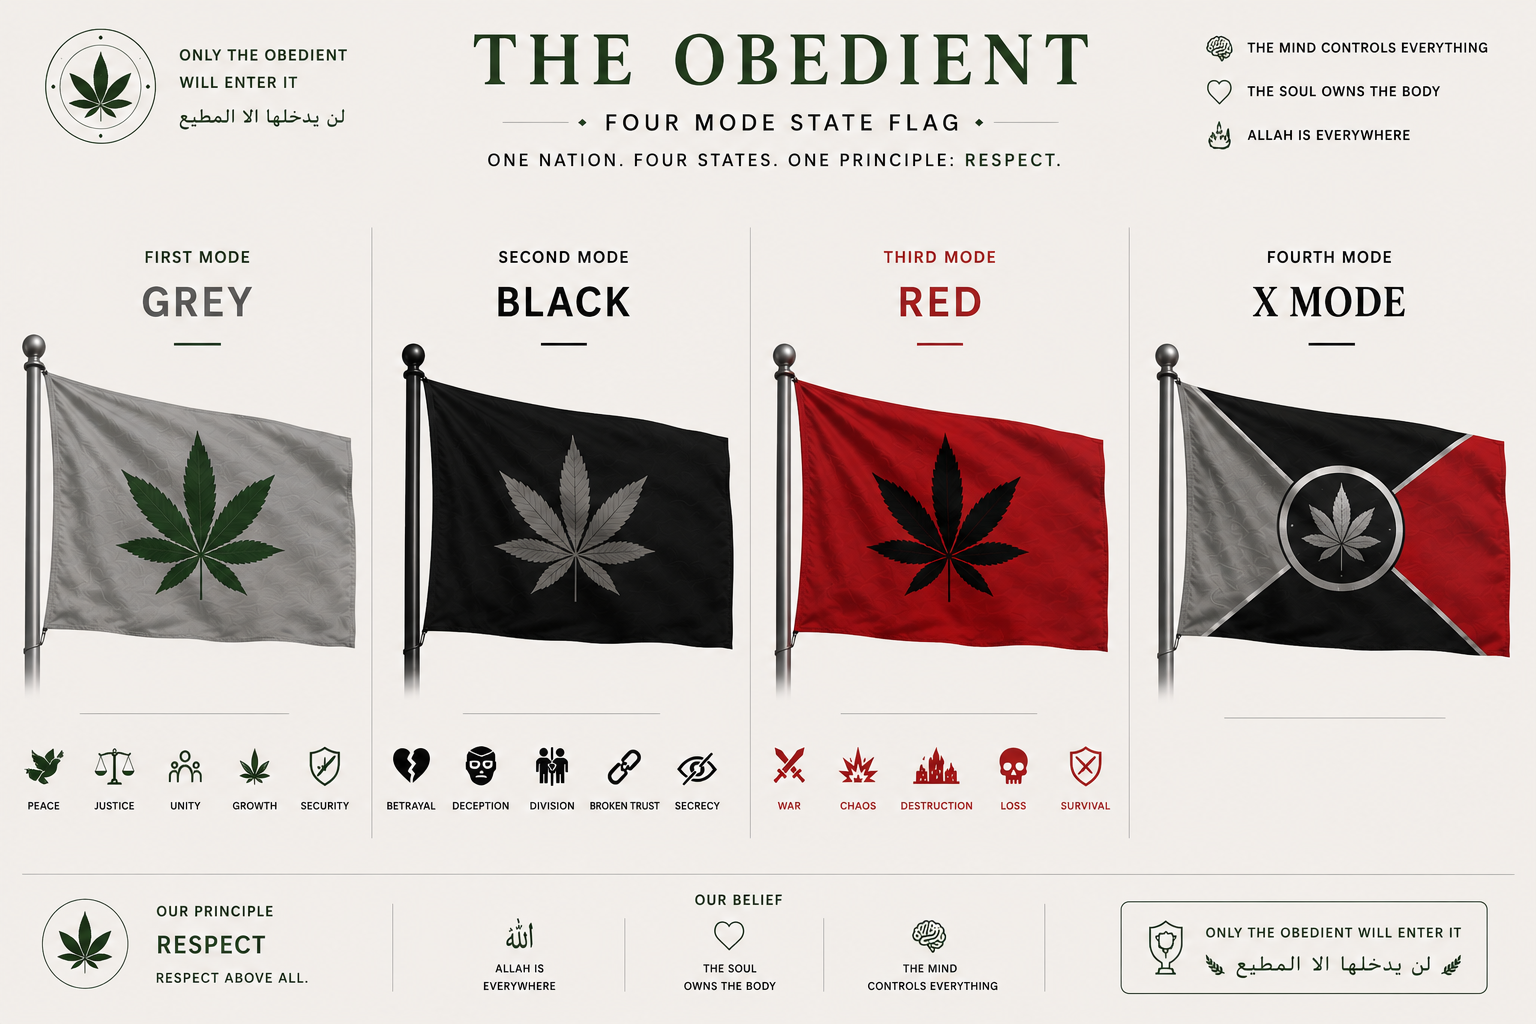
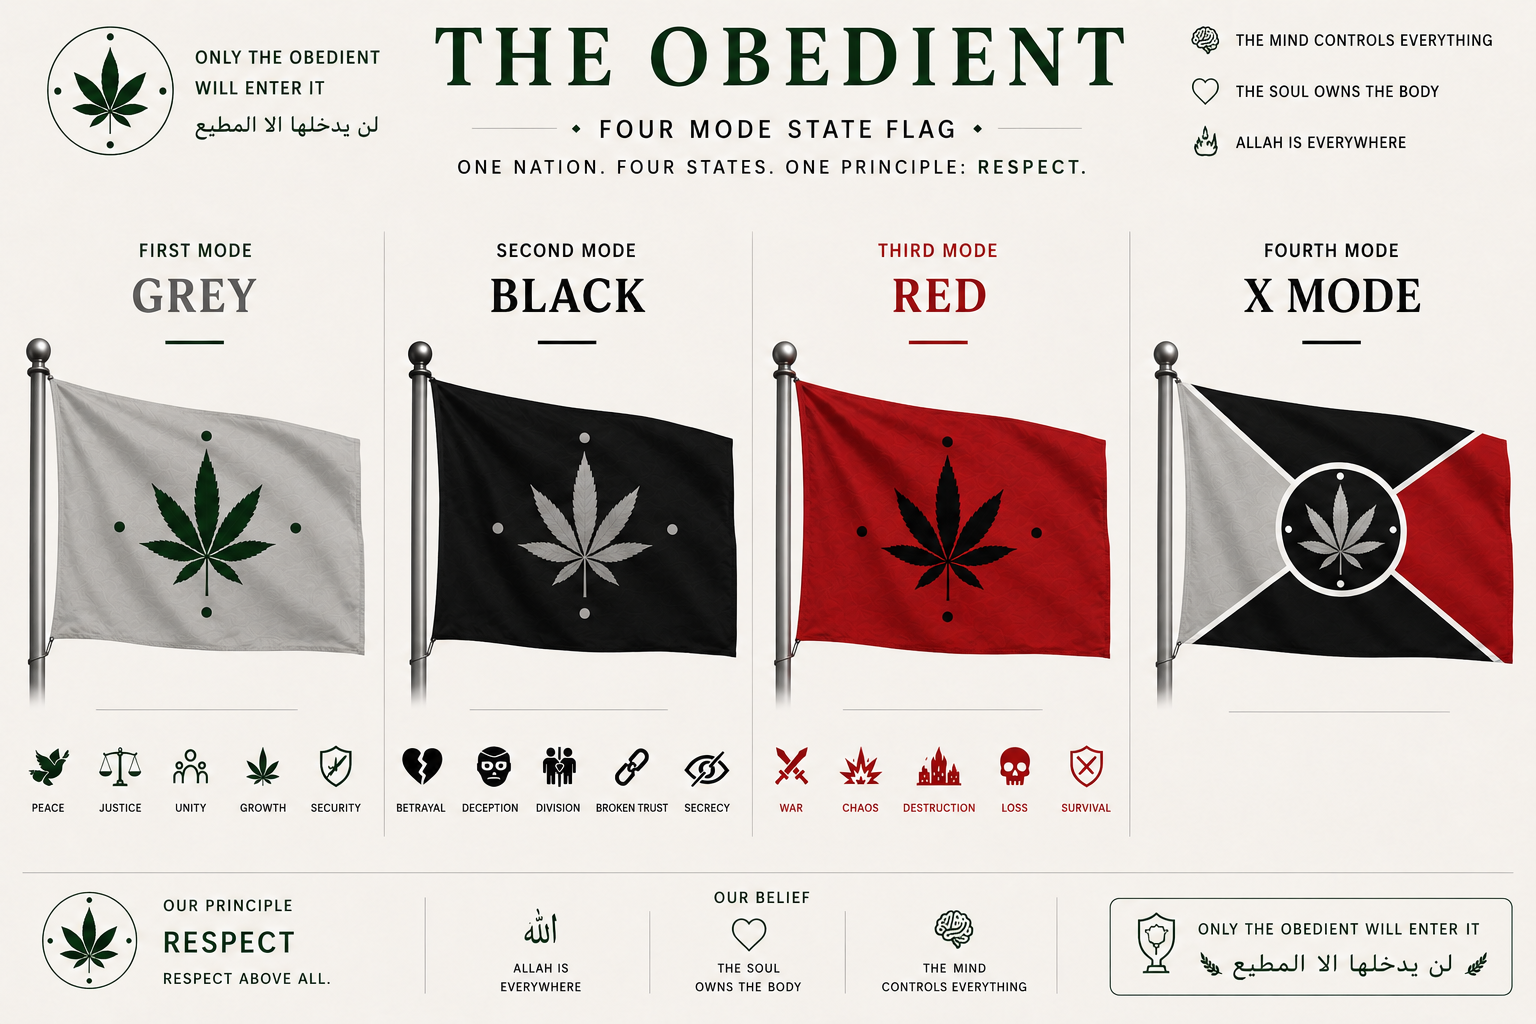
update image

diff --git a/index.html b/index.html
@@ -137,7 +137,7 @@
         <h2>OFFICIAL CURRENCY</h2>
         <p>
           The official currency consists of 10, 20, 50, and 100. The visual
-          system focuses on nature, symbols, and national identity.
+          system focuses on nature, symbols, and national identity. However, the currency is not in use at the moment.
         </p>
       </div>
 